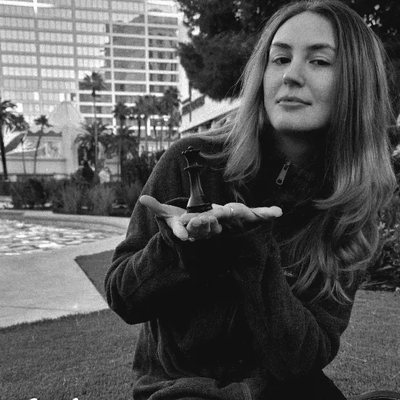
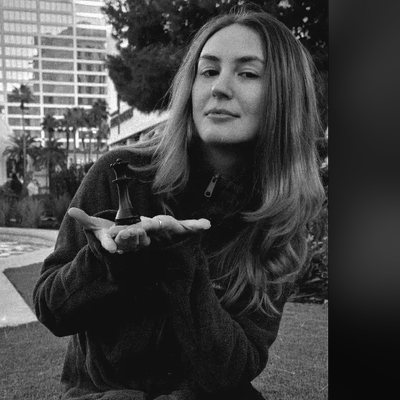
Photos: Sonny; recut Harold with the board in and centre Maddie
addphoto.py --pad lets a crop run past the edge of the picture, filling the gap
with a blurred copy, so an off-centre subject can be centred and a tall shot can
keep both the player and the board.

diff --git a/build/addphoto.py b/build/addphoto.py
@@ -8,7 +8,10 @@ The original is kept in originals/ (not published) so a photo can be recropped l
 --focus is where the face is, as fractions of width and height (default 0.5,0.4,
 a touch above centre, which suits most portraits). Use 0.5,0.25 for a face near
 the top of a tall photo. --zoom is the crop size as a fraction of the shorter side
-(default 1 = as big as fits; 0.5 = a tight head-and-shoulders crop).
+(default 1 = as big as fits; 0.5 = a tight head-and-shoulders crop). With --pad the
+crop may run past the edge of the picture and can be bigger than 1, so a subject that
+sits off to one side can be centred, or a tall shot can keep both face and board; the
+gap is filled with a blurred copy of the photo rather than a hard bar.
 """
 import sys, os, json, re, difflib
 from PIL import Image, ImageOps
@@ -33,10 +36,28 @@ if name not in names:
         if close: print('Did you mean:',', '.join(close))
         sys.exit(2)
 fx,fy=(float(v) for v in opts.get('focus','0.5,0.4').split(','))
+pad='--pad' in sys.argv
 im=ImageOps.exif_transpose(Image.open(src)).convert('RGB')
-w,h=im.size; s=max(64,int(min(w,h)*min(1.0,max(0.15,float(opts.get('zoom','1'))))))
-left=min(max(0,int(fx*w-s/2)),w-s); top=min(max(0,int(fy*h-s/2)),h-s)
-im=im.crop((left,top,left+s,top+s)).resize((400,400),Image.LANCZOS)
+w,h=im.size
+zoom=max(0.15,float(opts.get('zoom','1')))
+if not pad: zoom=min(1.0,zoom)
+s=max(64,int(min(w,h)*zoom))
+left=int(fx*w-s/2); top=int(fy*h-s/2)
+if not pad:
+    left=min(max(0,left),max(0,w-s)); top=min(max(0,top),max(0,h-s))
+if pad:
+    from PIL import ImageFilter, ImageEnhance
+    bg=ImageOps.fit(im,(400,400),Image.LANCZOS).filter(ImageFilter.GaussianBlur(22))
+    bg=ImageEnhance.Brightness(bg).enhance(0.62)
+    fg=im.crop((left,top,left+s,top+s))              # transparent outside the picture
+    box=Image.new('RGB',(s,s)); box.paste(im,(-left,-top))
+    mask=Image.new('L',(s,s),0)
+    mx0,my0=max(0,-left),max(0,-top)
+    mask.paste(255,(mx0,my0,mx0+min(s,w-max(0,left)),my0+min(s,h-max(0,top))))
+    box=box.resize((400,400),Image.LANCZOS); mask=mask.resize((400,400),Image.LANCZOS)
+    im=Image.composite(box,bg,mask)
+else:
+    im=im.crop((left,top,left+s,top+s)).resize((400,400),Image.LANCZOS)
 os.makedirs(os.path.join(ROOT,'photos'),exist_ok=True)
 out=os.path.join(ROOT,'photos',slug(name)+'.jpg')
 im.save(out,'JPEG',quality=84,optimize=True,progressive=True)
